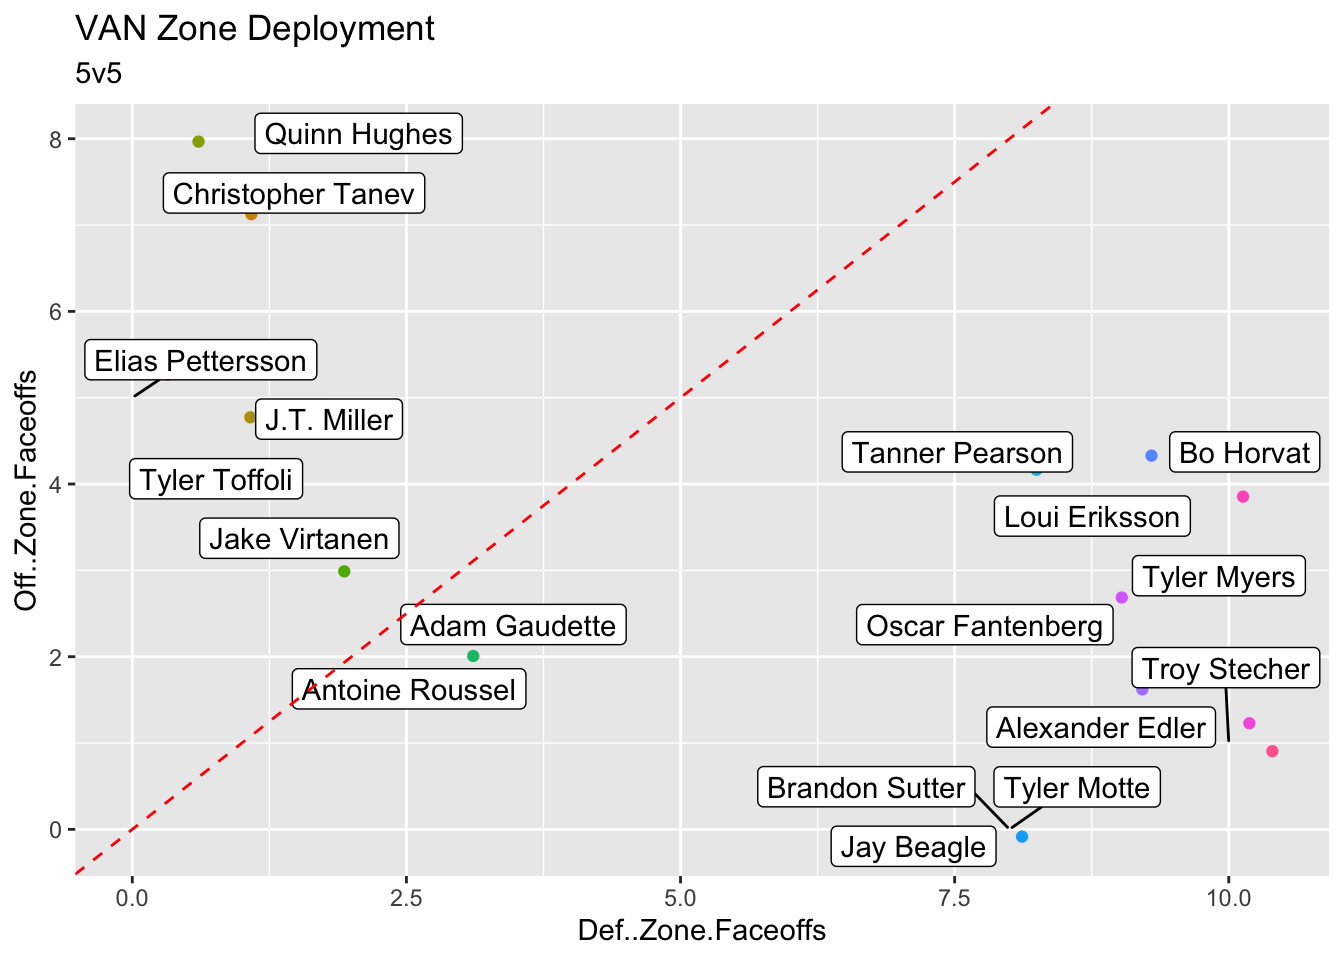
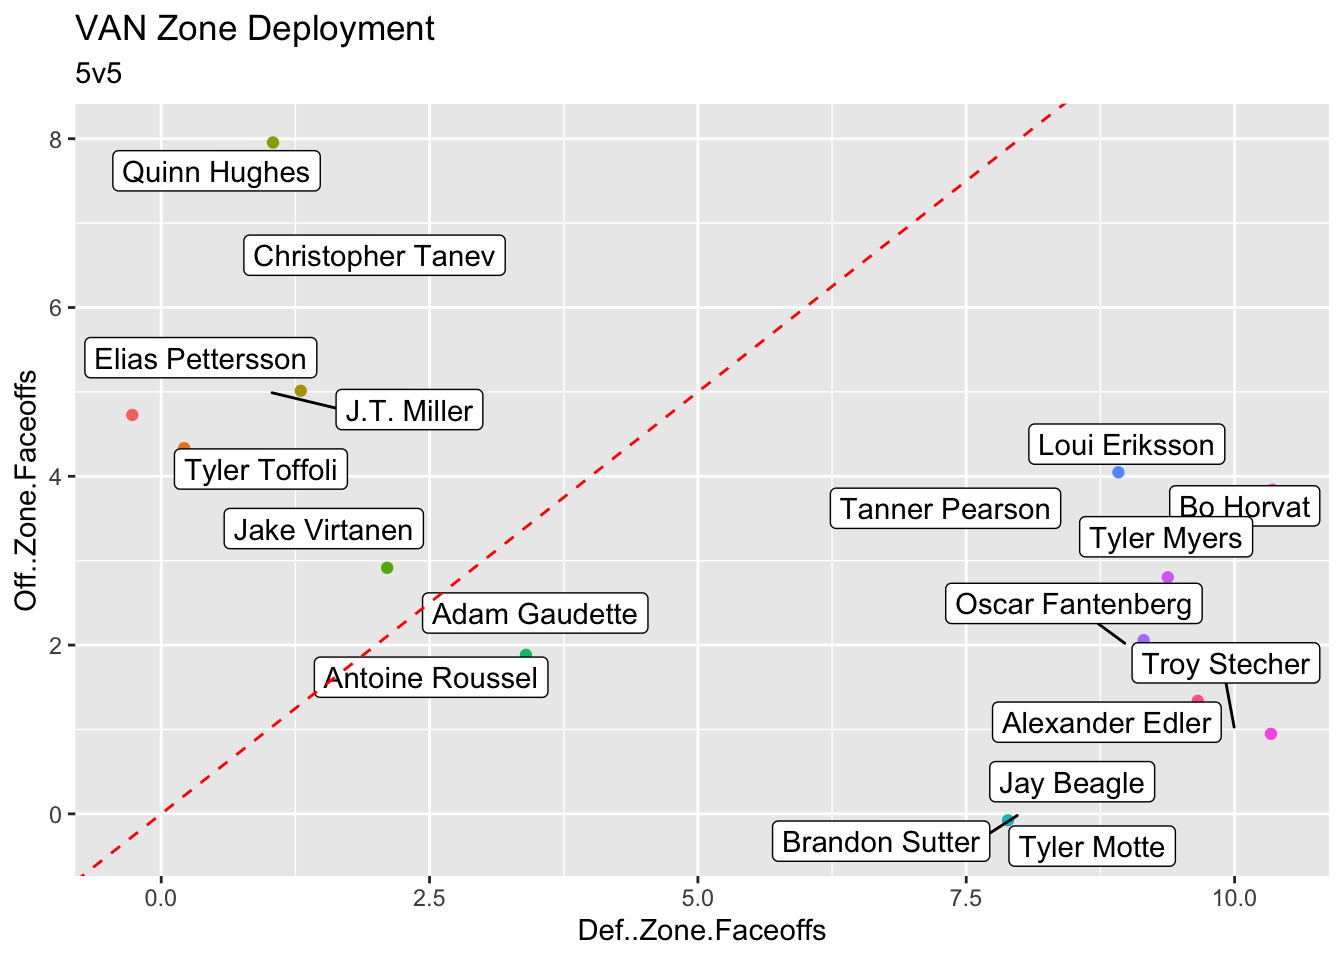
new

diff --git a/post/2020-02-20-numbers-behind-the-game-canucks-habs-2-25-2020.en.html b/post/2020-02-20-numbers-behind-the-game-canucks-habs-2-25-2020.en.html
@@ -1,0 +1,105 @@
+---
+title: 'Numbers Behind the Game: Canucks @ Habs (2/25/2020)'
+author: Brian Jungmin Park
+date: '2020-02-20'
+slug: numbers-behind-the-game-canucks-habs-2-25-2020
+categories:
+  - r
+  - sports
+  - hockey
+tags:
+  - r
+  - sports
+  - hockey
+description: ''
+---
+
+
+
+<p>The Vancouver Canucks completed a comeback victory in Montreal with the final score of 4-3 in overtime. A strong performance from the Canucks’ top forward line and a particularly dazzling performance from Jake Virtanen helped the cause, while the Habs’ noted struggle in 5v4 situations continued.</p>
+<p><em>all stats courtesy of naturalhattrick.com</em></p>
+<pre class="r"><code>library(tidyverse)</code></pre>
+<div id="generating-shots-at-even-strength" class="section level2">
+<h2>Generating Shots at Even-Strength:</h2>
+<pre class="r"><code>van_ind &lt;- read.table(file = &quot;~/Desktop/blog/van_data.csv&quot;, header = T)
+mtl_ind &lt;- read.table(file = &quot;~/Desktop/blog/mtl_data.csv&quot;, header = T)</code></pre>
+<pre class="r"><code>van_ind &lt;- mutate(van_ind, shots_per_TOI = Shots / TOI)
+mtl_ind &lt;- mutate(mtl_ind, shots_per_TOI = Shots / TOI)</code></pre>
+<pre class="r"><code>ggplot(mtl_ind, aes(x = reorder(Player, Shots / TOI), y = Shots / TOI)) + geom_bar(stat = &quot;identity&quot;) + coord_flip() + labs(title = &quot;MTL Shots per Time on Ice&quot;, subtitle = &quot;5v5&quot;) + xlab(&quot;Player&quot;)</code></pre>
+<p><img src="public/post/2020-02-20-numbers-behind-the-game-canucks-habs-2-25-2020.en_files/figure-html/unnamed-chunk-4-1.png" width="672" /></p>
+<pre class="r"><code>ggplot(van_ind, aes(x = reorder(Player, Shots / TOI), y = Shots / TOI)) + geom_bar(stat = &quot;identity&quot;) + coord_flip() + labs(title = &quot;VAN Shots per Time on Ice&quot;, subtitle = &quot;5v5&quot;) + xlab(&quot;Player&quot;)</code></pre>
+<p><img src="public/post/2020-02-20-numbers-behind-the-game-canucks-habs-2-25-2020.en_files/figure-html/unnamed-chunk-4-2.png" width="672" /></p>
+<p>The forward line of Domi-Weal-Byron did well despite the loss in generating shots at even strength. The trio of Tatar-Evans-Weise failed to generate a single shot at 5v5.</p>
+<p>Jake Virtanen continues his hot streak by generating the most number of shots per time spent on the ice at even strength. Elias Petterson seems to defer shot-taking duties to his trigger-happy linemates in J.T. Miller and Tyler Toffoli.</p>
+<pre class="r"><code>mtl_ice &lt;- read.table(file = &quot;~/Desktop/blog/mtl_ice.csv&quot;, header = T)
+van_ice &lt;- read.table(file = &quot;~/Desktop/blog/van_ice.csv&quot;, header = T)</code></pre>
+<pre class="r"><code>ggplot(mtl_ice, aes(x = Player, y = CF..Rel)) + geom_bar(aes(fill = TOI), stat = &quot;identity&quot;) + coord_flip() + labs(title = &quot;MTL Relative CF% and ice time&quot;, subtitle = &quot;5v5&quot;) </code></pre>
+<p><img src="public/post/2020-02-20-numbers-behind-the-game-canucks-habs-2-25-2020.en_files/figure-html/unnamed-chunk-6-1.png" width="672" /></p>
+<pre class="r"><code>ggplot(van_ice, aes(x = Player, y = CF..Rel)) + geom_bar(aes(fill = TOI), stat = &quot;identity&quot;) + coord_flip() + labs(title = &quot;VAN Relative CF% and ice time&quot;, subtitle = &quot;5v5&quot;) </code></pre>
+<p><img src="public/post/2020-02-20-numbers-behind-the-game-canucks-habs-2-25-2020.en_files/figure-html/unnamed-chunk-6-2.png" width="672" /></p>
+<p>The forward line of Byron-Domi-Weal seemed to have had a standout performance despite the loss. Defensive pairing of Jeff Petry and Brett Kulak did well to prevent chances against while leading in ice time. On the other end of the spectrum, it was a night to forget for the trio of Dale Weise, Jake Evans, and Arthuri Lehkonen.</p>
+<p>The top Canucks line of Petterson-Miller-Toffoli caused havoc at the Habs expense, generating most combined corsi-for events at even strength. Jake Virtanen once again did well in creating chances.</p>
+<pre class="r"><code>ggplot(mtl_ice, aes(x = Player, y = SF..Rel)) + geom_bar(aes(fill = TOI), stat = &quot;identity&quot;) + coord_flip() + labs(title = &quot;MTL Relative Shots-for % and ice time&quot;, subtitle = &quot;5v5&quot;) </code></pre>
+<p><img src="public/post/2020-02-20-numbers-behind-the-game-canucks-habs-2-25-2020.en_files/figure-html/unnamed-chunk-7-1.png" width="672" /></p>
+<pre class="r"><code>ggplot(van_ice, aes(x = Player, y = SF..Rel)) + geom_bar(aes(fill = TOI), stat = &quot;identity&quot;) + coord_flip() + labs(title = &quot;VAN Relative Shots-for % and ice time&quot;, subtitle = &quot;5v5&quot;) </code></pre>
+<p><img src="public/post/2020-02-20-numbers-behind-the-game-canucks-habs-2-25-2020.en_files/figure-html/unnamed-chunk-7-2.png" width="672" /></p>
+<p>The Domi line shared the bulk of Habs’ shots at even strength. Meanwhile their fourth line were not only buried in CF%, but SF% as well.</p>
+<p>Tyler Motte in particular, partnered with veterans Brandon Sutter and Jay Beagle did not fare well in preventing shots against.</p>
+<pre class="r"><code>mtl_ice &lt;- mutate(mtl_ice, total_faceoffs = Off..Zone.Faceoffs + Neu..Zone.Faceoffs + Def..Zone.Faceoffs)
+van_ice &lt;- mutate(van_ice, total_faceoffs = Off..Zone.Faceoffs + Neu..Zone.Faceoffs + Def..Zone.Faceoffs)</code></pre>
+</div>
+<div id="zone-deployment" class="section level2">
+<h2>Zone Deployment</h2>
+<pre class="r"><code>library(ggrepel)</code></pre>
+<pre class="r"><code>ggplot(van_ice, aes(x = Def..Zone.Faceoffs, y = Off..Zone.Faceoffs)) + geom_jitter(stat = &quot;identity&quot;, aes(color = reorder(Player, Def..Zone.Faceoffs)))  + geom_label_repel(aes(label = Player)) + theme(legend.position = &quot;none&quot;) + labs(title = &quot;VAN Zone Deployment&quot;, subtitle = &quot;5v5&quot;) + geom_abline(slope = 1, intercept = 0, linetype = &quot;dashed&quot;, color = &quot;red&quot;)</code></pre>
+<p><img src="public/post/2020-02-20-numbers-behind-the-game-canucks-habs-2-25-2020.en_files/figure-html/unnamed-chunk-10-1.png" width="672" /></p>
+<pre class="r"><code>ggplot(mtl_ice, aes(x = Def..Zone.Faceoffs, y = Off..Zone.Faceoffs)) + geom_jitter(stat = &quot;identity&quot;, aes(color = reorder(Player, Def..Zone.Faceoffs)))  + geom_label_repel(aes(label = Player)) + theme(legend.position = &quot;none&quot;) + labs(title = &quot;MTL Zone Deployment&quot;, subtitle = &quot;5v5&quot;) + geom_abline(slope = 1, intercept = 0, linetype = &quot;dashed&quot;, color = &quot;red&quot;)</code></pre>
+<p><img src="public/post/2020-02-20-numbers-behind-the-game-canucks-habs-2-25-2020.en_files/figure-html/unnamed-chunk-10-2.png" width="672" /></p>
+<p>Canucks’ top offensive line of Petterson-Miller-Toffoli were, as expected, heavily favoured to start in the offensive zone. They were often complemented with the defensive pairing of Chris Tanev and Quinn Hughes. Edler-Stetcher pairing meanwhile shared the burden of heavy defensive deployment, as well with the shutdown forward line of Beagle-Motte-Sutter – explaining the negatively skewed Corsi-For numbers.</p>
+<p>The performance of the Max Domi line is even more impressive by the fact that their deployment was fairly even across the offensive-defensive zones. The trio of Drouin-Suzuki-Armia, meanwhile, enjoyed a more favorable deployment despite their lack of production. As usual, captain Shea Weber was on the ice for the highest number of defensive zone starts.</p>
+</div>
+<div id="forward-lines-performance" class="section level2">
+<h2>Forward Lines Performance</h2>
+<p>Results grouped by line combinations reflect analysis above.</p>
+<pre class="r"><code>mtl_fwds &lt;- read.table(file = &quot;~/Desktop/blog/mtl_fwds.csv&quot;, header = T)
+van_fwds &lt;- read.table(file = &quot;~/Desktop/blog/van_fwds.csv&quot;, header = T)</code></pre>
+<pre class="r"><code>mtl_fwds &lt;- transform(mtl_fwds, lines = paste(Player.1, Player.2, Player.3, sep = &quot; &quot;)) 
+van_fwds &lt;- transform(van_fwds, lines = paste(Player.1, Player.2, Player.3, sep = &quot; &quot;))</code></pre>
+<pre class="r"><code>ggplot(mtl_fwds, aes(x = lines, y = CF..Rel)) + geom_bar(stat = &quot;identity&quot;, aes(fill = TOI)) + coord_flip() + labs(title = &quot;MTL Forward Line Combinations and CF% Rel&quot;, subtitle = &quot;5v5&quot;)</code></pre>
+<p><img src="public/post/2020-02-20-numbers-behind-the-game-canucks-habs-2-25-2020.en_files/figure-html/unnamed-chunk-13-1.png" width="672" /></p>
+<pre class="r"><code>ggplot(van_fwds, aes(x = lines, y = CF..Rel)) + geom_bar(stat = &quot;identity&quot;, aes(fill = TOI)) + coord_flip() + labs(title = &quot;VAN Forward Line Combinations and CF% Rel&quot;, subtitle = &quot;5v5&quot;)</code></pre>
+<p><img src="public/post/2020-02-20-numbers-behind-the-game-canucks-habs-2-25-2020.en_files/figure-html/unnamed-chunk-13-2.png" width="672" /></p>
+<pre class="r"><code>ggplot(mtl_fwds, aes(x = lines, y = SF..Rel)) + geom_bar(stat = &quot;identity&quot;, aes(fill = TOI)) + coord_flip() + labs(title = &quot;MTL Forward Line Combinations and Rel. Shots-for %&quot;, subtitle = &quot;5v5&quot;) + theme(plot.title = element_text(size = 10))</code></pre>
+<p><img src="public/post/2020-02-20-numbers-behind-the-game-canucks-habs-2-25-2020.en_files/figure-html/unnamed-chunk-14-1.png" width="672" /></p>
+<pre class="r"><code>ggplot(van_fwds, aes(x = lines, y = SF..Rel)) + geom_bar(stat = &quot;identity&quot;, aes(fill = TOI)) + coord_flip() + labs(title = &quot;VAN Forward Line Combinations and Rel. Shots-for %&quot;, subtitle = &quot;5v5&quot;)  + theme(plot.title = element_text(size = 10))</code></pre>
+<p><img src="public/post/2020-02-20-numbers-behind-the-game-canucks-habs-2-25-2020.en_files/figure-html/unnamed-chunk-14-2.png" width="672" /></p>
+<p>The Petterson line did well in driving play with ample amount of ice time and offensive zone starts, while the Virtanen line did well in generating shots in limited ice time.</p>
+<p>Habs’ fourth line were buried in scoring chances and in generating shots. The Domi line were the only forward trio to have relative SF% in the positives.</p>
+</div>
+<div id="special-teams" class="section level2">
+<h2>Special Teams</h2>
+<pre class="r"><code>van_pp &lt;- read.table(file = &quot;~/Desktop/blog/van_pp.csv&quot;, header = T)
+mtl_pp &lt;- read.table(file = &quot;~/Desktop/blog/mtl_pp.csv&quot;, header = T)</code></pre>
+<pre class="r"><code>van_pp2 &lt;- van_pp[which(van_pp$TOI != 0),] 
+mtl_pp2 &lt;- mtl_pp[which(mtl_pp$TOI != 0),] </code></pre>
+<pre class="r"><code>ggplot(mtl_pp2, aes(x = reorder(Player, TOI), y = CF)) + geom_point(stat = &quot;identity&quot;, aes(color = TOI)) + coord_flip() + labs(title = &quot;MTL Powerplay Corsi-For Events&quot;, subtitle = &quot;Decreasing TOI down y-axis, 5v4 only&quot;) + xlab(&quot;Player&quot;)</code></pre>
+<p><img src="public/post/2020-02-20-numbers-behind-the-game-canucks-habs-2-25-2020.en_files/figure-html/unnamed-chunk-17-1.png" width="672" /></p>
+<pre class="r"><code>ggplot(van_pp2, aes(x = reorder(Player, TOI), y = CF)) + geom_point(stat = &quot;identity&quot;, aes(color = TOI)) + coord_flip() + labs(title = &quot;VAN Powerplay Corsi-For Events&quot;, subtitle = &quot;Decreasing TOI down y-axis, 5v4 only&quot;) + xlab(&quot;Player&quot;)</code></pre>
+<p><img src="public/post/2020-02-20-numbers-behind-the-game-canucks-habs-2-25-2020.en_files/figure-html/unnamed-chunk-17-2.png" width="672" /></p>
+<p>There was just a single corsi-for event for the Habs on the power-play.</p>
+<p>The top power-play unit for the Canucks received significant majority of ice time at 5v4, but the second unit did well in creating chances in their sole opportunity.</p>
+<pre class="r"><code>van_pk &lt;- read.table(file = &quot;~/Desktop/blog/van_pk.csv&quot;, header = T)
+mtl_pk &lt;- read.table(file = &quot;~/Desktop/blog/mtl_pk.csv&quot;, header = T)</code></pre>
+<pre class="r"><code>van_pk2 &lt;- van_pk[which(van_pk$TOI != 0),] 
+mtl_pk2 &lt;- mtl_pk[which(mtl_pk$TOI != 0),] </code></pre>
+<pre class="r"><code>ggplot(mtl_pk2, aes(x = reorder(Player, TOI), y = CA)) + geom_point(stat = &quot;identity&quot;, aes(color = TOI)) + coord_flip() + labs(title = &quot;MTL Penalty Kill Corsi-Against Events&quot;, subtitle = &quot;Decreasing TOI down y-axis, 4v5 only&quot;) + xlab(&quot;Player&quot;)</code></pre>
+<p><img src="public/post/2020-02-20-numbers-behind-the-game-canucks-habs-2-25-2020.en_files/figure-html/unnamed-chunk-20-1.png" width="672" /></p>
+<pre class="r"><code>ggplot(van_pk2, aes(x = reorder(Player, TOI), y = CA)) + geom_point(stat = &quot;identity&quot;, aes(color = TOI)) + coord_flip() + labs(title = &quot;VAN Penalty Kill Corsi-Against Events&quot;, subtitle = &quot;Decreasing TOI down y-axis, 4v5 only&quot;) + xlab(&quot;Player&quot;)</code></pre>
+<p><img src="public/post/2020-02-20-numbers-behind-the-game-canucks-habs-2-25-2020.en_files/figure-html/unnamed-chunk-20-2.png" width="672" /></p>
+<p>It was a rough night for the pairing of Weber-Chiarot on the penalty kill.</p>
+<p>The Canucks did well in suppressing scoring chances on the penalty kill.</p>
+</div>
+<div id="conclusion" class="section level2">
+<h2>Conclusion</h2>
+<p>The Canucks keep on rolling, chasing the top seed in the Pacific Division. Jake Virtanen is having a stand-out year and did well to capitalize on his chances this game. Meanwhile in Montreal, it seems that after the trade-deadline-subtractions in the lineup there is a need for tightening in the defensive zone.</p>
+</div>

diff --git a/post/2020-12-27-building-a-neural-network-with-tensorflow-and-keras.en.html b/post/2020-12-27-building-a-neural-network-with-tensorflow-and-keras.en.html
@@ -1,0 +1,17 @@
+---
+title: 'Building a neural network with TensorFlow and Keras '
+author: Brian Jungmin Park
+date: '2020-12-27'
+slug: []
+categories: []
+tags:
+  - python
+  - ml
+  - neural network
+  - tensorflow
+description: ''
+---
+
+
+
+
